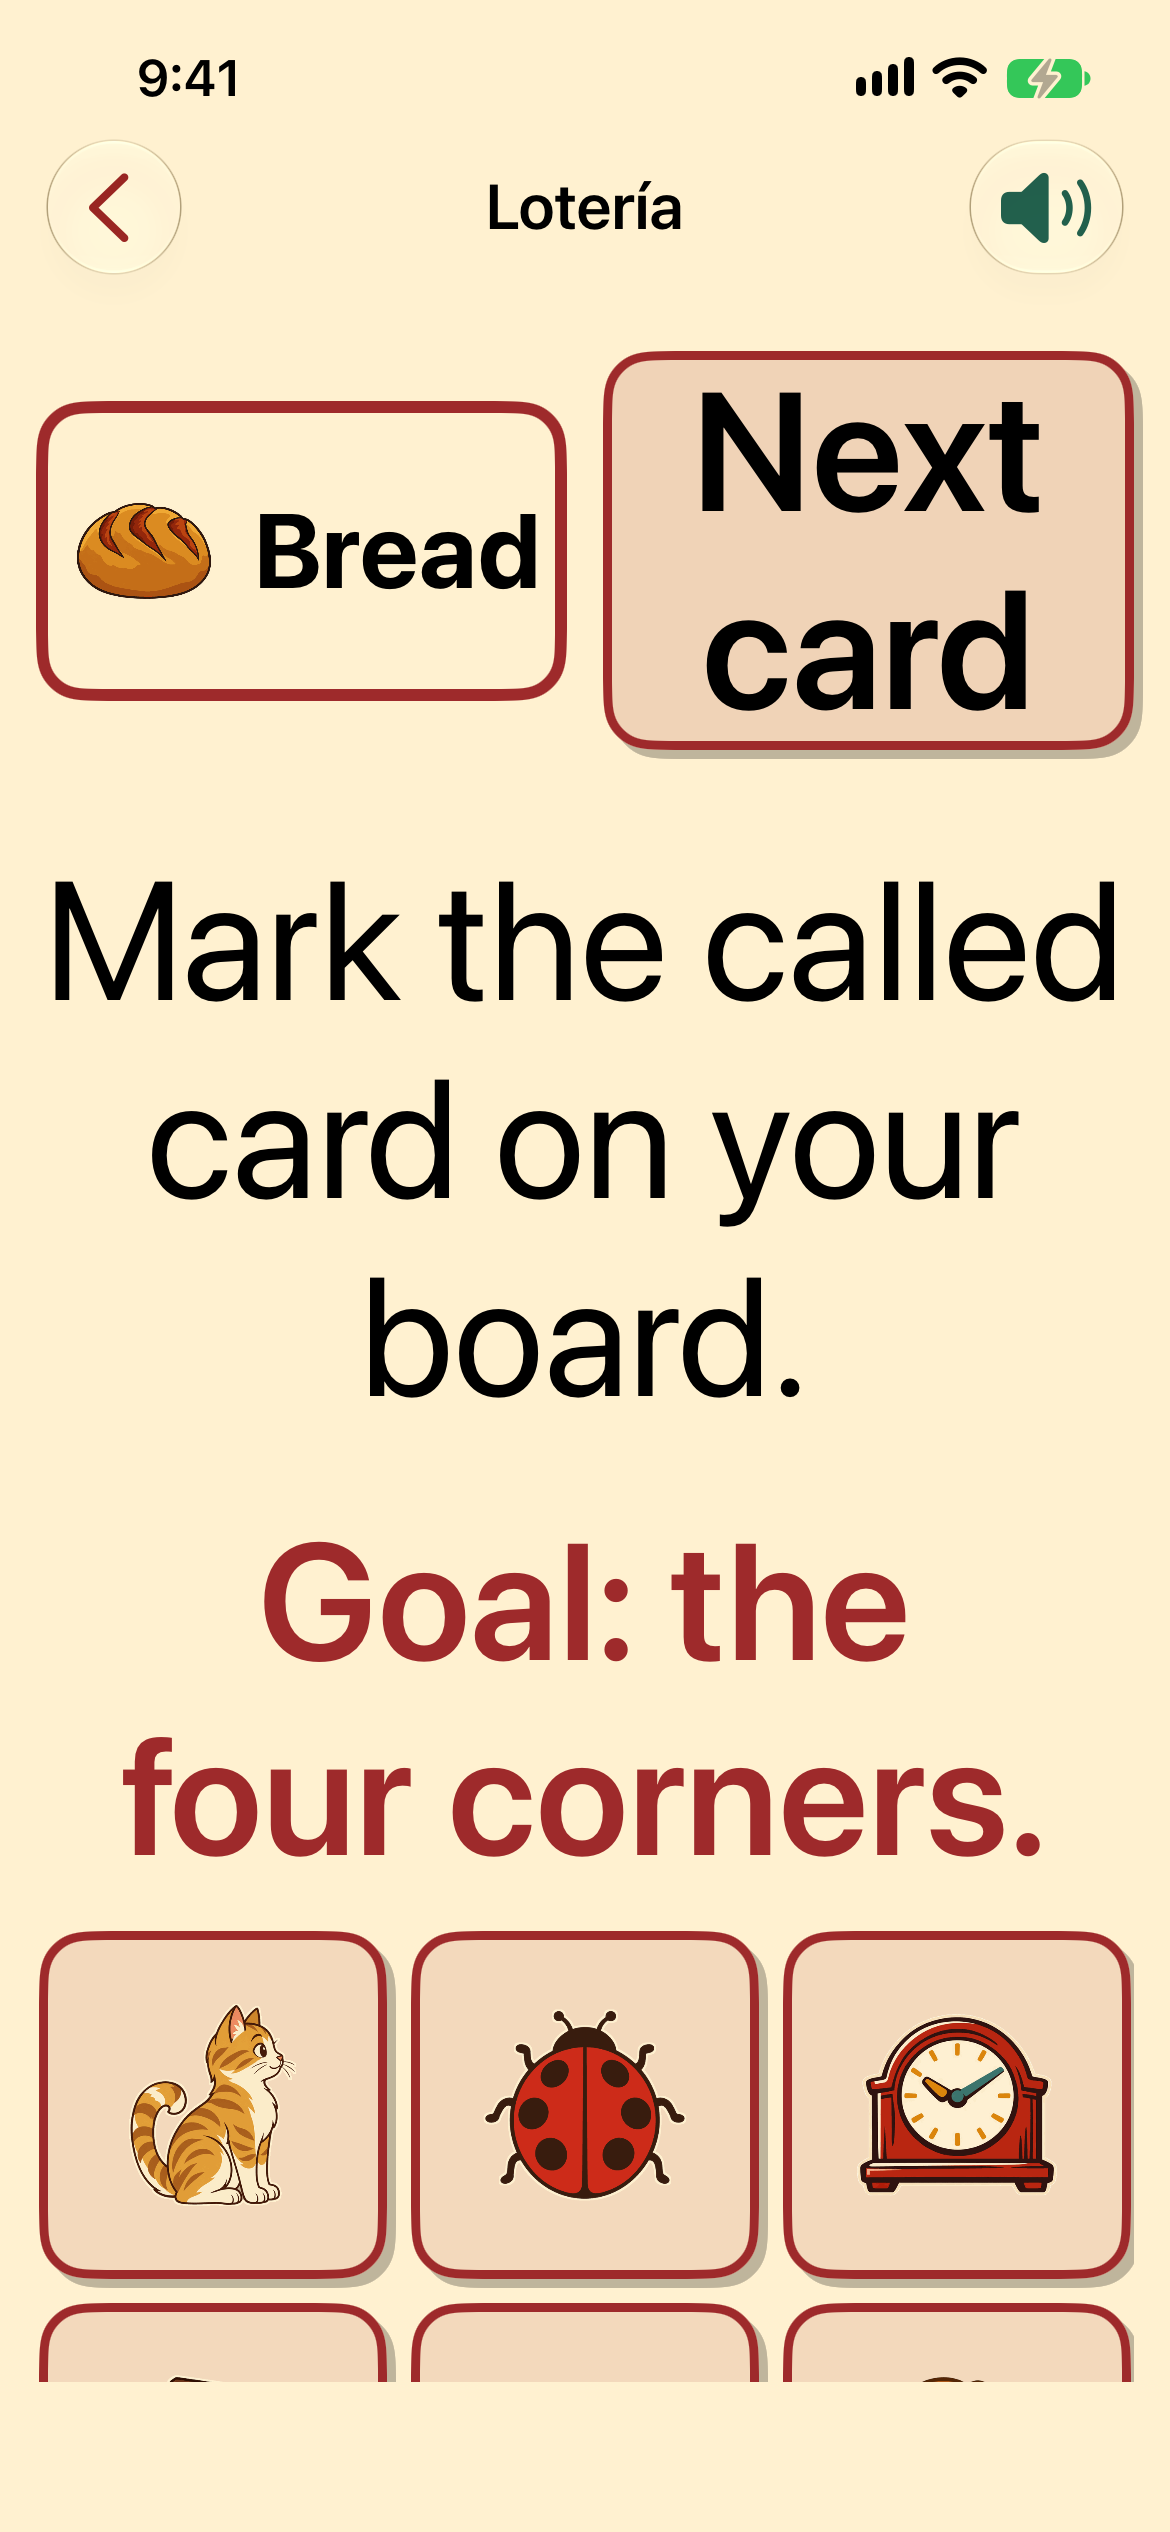
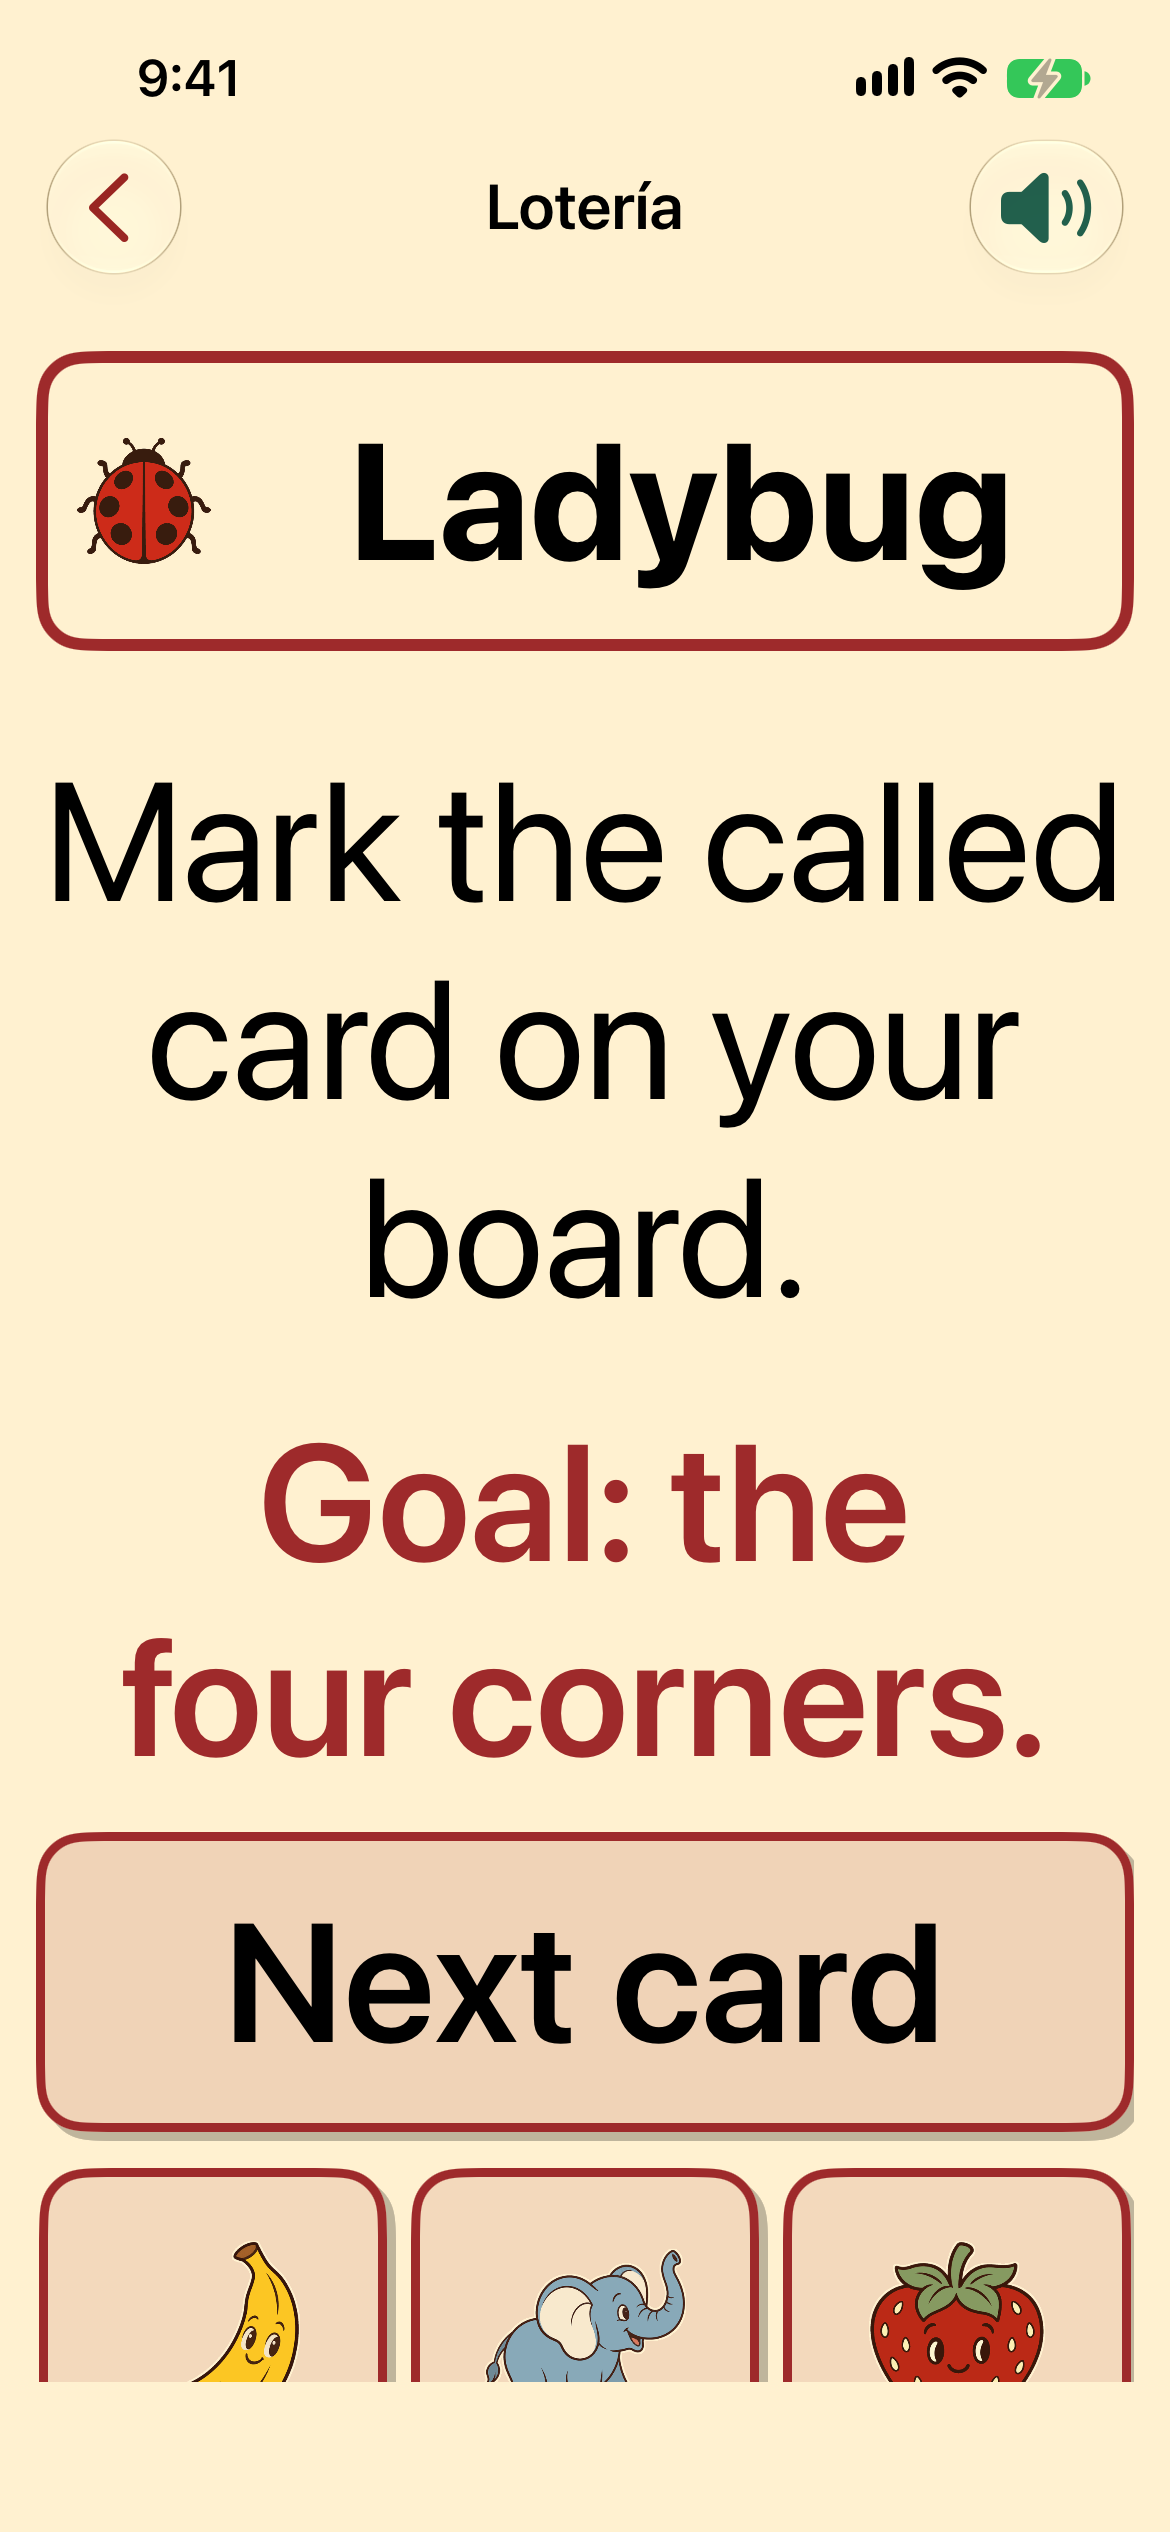
Align Lotería accessibility layout with card style (#556)

Changed region(s): [[0.0308, 0.1248, 0.9846, 0.9672]]

diff --git a/MenteViva/Games/LoteriaView.swift b/MenteViva/Games/LoteriaView.swift
@@ -102,10 +102,7 @@ struct LoteriaView: View {
                     }
                     .buttonStyle(RetroButtonStyle())
                 } else {
-                    HStack(spacing: rowGap) {
-                        compactCalledCard
-                        nextCardButton
-                    }
+                    calledCard(height: Self.topRowMinimum, compact: true)
                 }
                 ScrollView {
                     VStack(spacing: rowGap) {
@@ -113,6 +110,7 @@ struct LoteriaView: View {
                         instructionRow
                         goalLine
                         if !deal.hasLoteria {
+                            nextCardButton
                             board(
                                 tile: Self.tileSide(
                                     width: proxy.size.width, height: proxy.size.width, side: deal.side, gap: gap)
@@ -222,47 +220,40 @@ struct LoteriaView: View {
         .buttonStyle(AnswerTileStyle(minHeight: Self.topRowMinimum))
     }
 
-    /// A smaller copy of the called card for the pinned accessibility-size bar.
-    private var compactCalledCard: some View {
-        let name = AppLanguage.localized(deal.current.nameKey)
-        let showsPicture = LoteriaDeal.showsPicture(for: difficulty)
-        return HStack(spacing: 8) {
-            if showsPicture {
-                PictureView(picture: deal.current, size: 56)
-            }
-            Text(name)
-                .font(.title3.weight(.bold))
-                .lineLimit(2)
-                .minimumScaleFactor(0.6)
-                .multilineTextAlignment(.center)
-                .frame(maxWidth: .infinity)
-        }
-        .padding(8)
-        .frame(maxWidth: .infinity, minHeight: Self.topRowMinimum)
-        .background(Color.paper, in: .rect(cornerRadius: 16))
-        .overlay(RoundedRectangle(cornerRadius: 16).strokeBorder(.tint, lineWidth: 4))
-        .accessibilityElement(children: .ignore)
-        .accessibilityLabel(String(format: AppLanguage.localized("game.loteria.a11y.called %@"), name))
-        .guideTarget()
-    }
-
     /// The called card, framed like a lotería card: its picture and name, or the name alone from
     /// level 7. VoiceOver always hears the full name.
-    private func calledCard(height: CGFloat) -> some View {
+    private func calledCard(height: CGFloat, compact: Bool = false) -> some View {
         let name = AppLanguage.localized(deal.current.nameKey)
         let showsPicture = LoteriaDeal.showsPicture(for: difficulty)
-        return VStack(spacing: 4) {
-            if showsPicture {
-                PictureView(picture: deal.current, size: max(44, height - 52))
+        return Group {
+            if compact {
+                HStack(spacing: 8) {
+                    if showsPicture { PictureView(picture: deal.current, size: 56) }
+                    Text(name)
+                        .font(.title3.weight(.bold))
+                        .lineLimit(1)
+                        .minimumScaleFactor(0.5)
+                        .multilineTextAlignment(.center)
+                        .frame(maxWidth: .infinity)
+                }
+            } else {
+                VStack(spacing: 4) {
+                    if showsPicture {
+                        PictureView(picture: deal.current, size: max(44, height - 52))
+                    }
+                    Text(name)
+                        .font(showsPicture ? .title3.weight(.bold) : .title.weight(.bold))
+                        .lineLimit(2)
+                        .minimumScaleFactor(0.5)
+                        .multilineTextAlignment(.center)
+                }
             }
-            Text(name)
-                .font(showsPicture ? .title3.weight(.bold) : .title.weight(.bold))
-                .lineLimit(2)
-                .minimumScaleFactor(0.5)
-                .multilineTextAlignment(.center)
         }
         .padding(8)
-        .frame(maxWidth: .infinity, maxHeight: .infinity)
+        .frame(
+            maxWidth: .infinity, minHeight: compact ? Self.topRowMinimum : nil,
+            maxHeight: compact ? Self.topRowMinimum : .infinity
+        )
         .background(Color.paper, in: .rect(cornerRadius: 16))
         .overlay(RoundedRectangle(cornerRadius: 16).strokeBorder(.tint, lineWidth: 4))
         .accessibilityElement(children: .ignore)
@@ -309,7 +300,6 @@ struct LoteriaView: View {
                 .accessibilityHidden(true)
         }
         .scaleEffect(isHelpTile && helpPulse && !reduceMotion ? 1.06 : 1)
-        .animation(.easeInOut(duration: 0.25), value: helpPulse)
         .modifier(MissCue(active: Binding(get: { missedTile == index }, set: { if !$0 { missedTile = nil } })))
         .accessibilityLabel(label)
     }
@@ -372,7 +362,7 @@ struct LoteriaView: View {
 
     /// Expands and settles the matching tile once; a ring stays in its place under Reduce Motion.
     private func animateHelpCue() async {
-        guard helpTile != nil else { return }
+        guard helpTile != nil, !reduceMotion else { return }
         withAnimation(.easeInOut(duration: 0.25)) { helpPulse = true }
         do {
             try await Task.sleep(for: .milliseconds(250))
